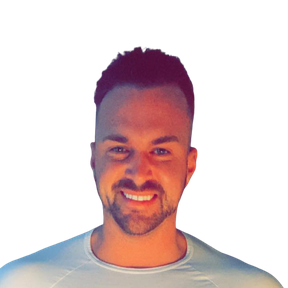
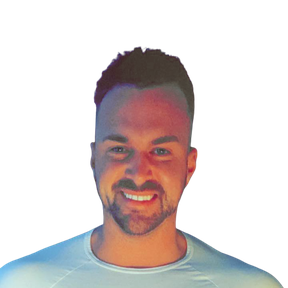
Two faces on the About page, and Ash's hair is his own colour again
RICHARD. His is an outdoor selfie with a building and sky behind him, so there
was nothing to key on - it needed real segmentation. cv2's grabCut kept half the
sky, so this uses rembg's human segmentation model with alpha matting, which cut
cleanly around the glasses. Same recipe as Ash's after that: find the head from
the silhouette's width profile, crop square with headroom, 288px for a 72px slot.

THE HAIR. Richard said Ash's looked red. It measured worse than that: hue 329,
which is magenta, at 0.55 saturation - hair does not come in that colour, so
something in the source had cast it. Corrected by rotating only the dark,
saturated, magenta pixels to a natural brown (hue 24, saturation down to 42%)
with soft weights, so skin at hue 39 and the shirt above 0.7 value are untouched.
6% of the subject moved.

While in there, the whole picture was over-warm - the skin read orange. A
grey-world correction applied at 45% strength pulls it back toward neutral
without draining a face that is legitimately warmer than grey. Full correction
looked ill; none of it looked filtered.

diff --git a/about.html b/about.html
@@ -387,7 +387,7 @@ html.has-cursor,html.has-cursor a,html.has-cursor button,html.has-cursor input{c
     <p>TradeScale Plus was built to close those gaps rather than add another dashboard: a website sales admin that knows every car on the forecourt, answers properly at any hour, and puts a name, a number and a booked appointment in front of the sales team in the morning.</p>
   </div>
   <div class="person rv">
-    <div class="top"><div class="pic" aria-hidden="true">R</div><div><h3>Richard Beagle</h3><p class="role">Head of Dealer Relations</p></div></div>
+    <div class="top"><img class="pic" src="assets/richard.png" width="72" height="72" alt="Richard Beagle, Head of Dealer Relations at TradeScale Plus" loading="lazy" decoding="async"><div><h3>Richard Beagle</h3><p class="role">Head of Dealer Relations</p></div></div>
     <p>Richard joins TradeScale Plus bringing a wealth of automotive experience to the company, having started in the industry in 1979.</p>
     <p>He began as a trainee sales adviser and worked up through a range of sales and management roles, across a mixture of family-owned businesses and PLCs.</p>
     <p>Richard founded TalkSales Europe Limited in 2004 and is still very active with it, helping sales teams across the UK improve sales performance and the customer experience. In that time he has delivered over 18,000 workshops and mentoring sessions to help sales people move forward to success.</p>
